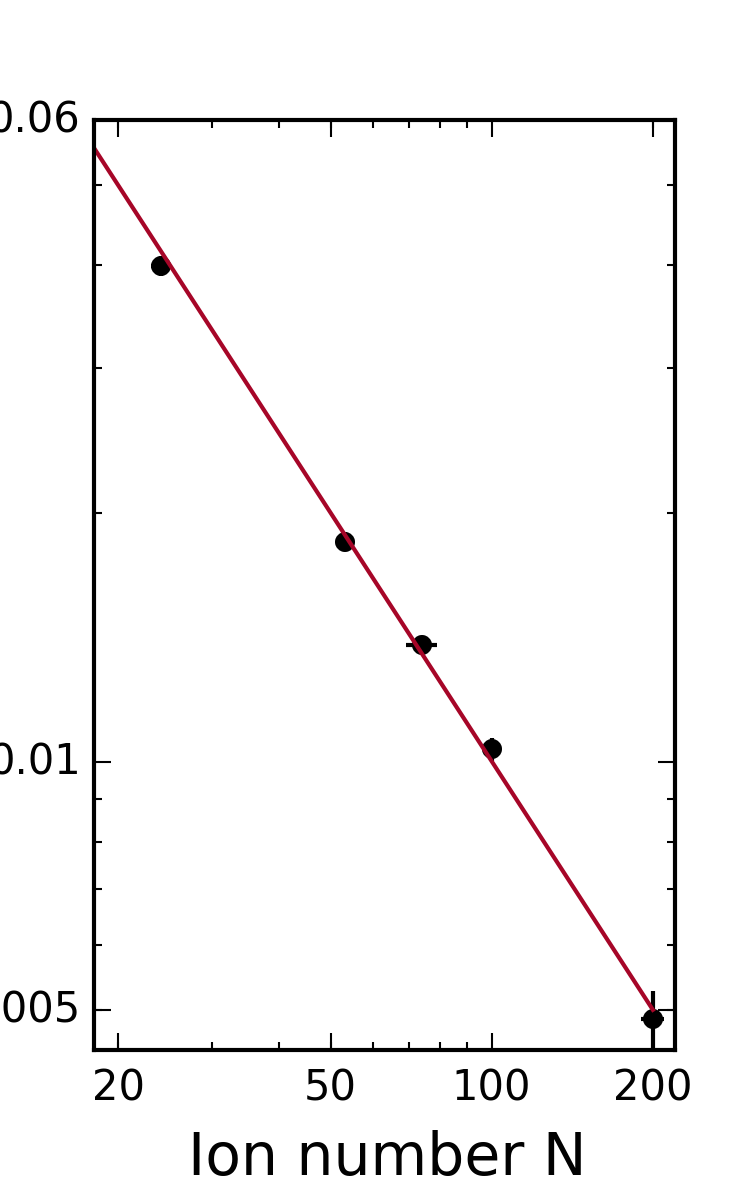
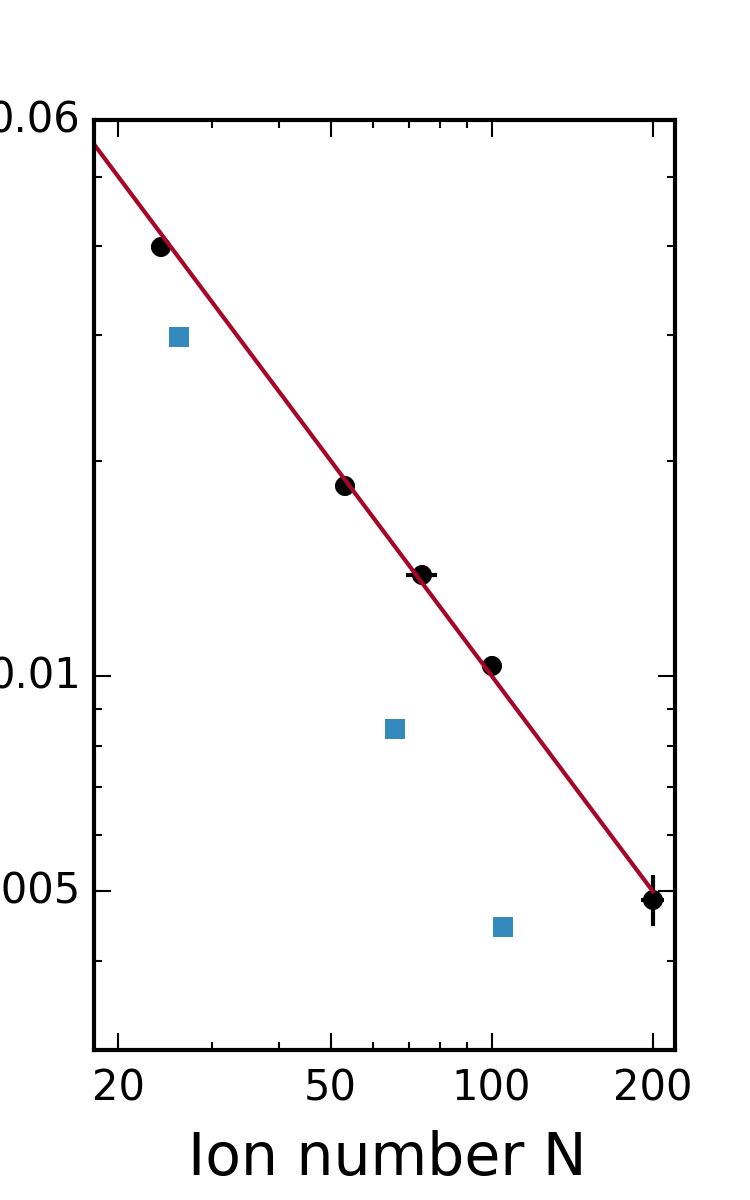
add squeezed points to noise vs N plot

diff --git a/paper_figs/penning_squeeze/PNvsN_plot.py b/paper_figs/penning_squeeze/PNvsN_plot.py
@@ -36,9 +36,15 @@ plt.errorbar([round(n) for n in Ns], np.array(sig_subs)**2, yerr=sfe, xerr=Ns_er
 plt.plot(N_pred,1/np.array(N_pred),'-')
 plt.yscale('log')
 plt.xscale('log')
-plt.axis([0,220, 0.00,0.06])
+plt.axis([0,220, 0.003,0.06])
 plt.ylabel(r'Fractional spin noise $(\Delta S_z/|\vec{S}|)^2$')
 plt.xlabel('Ion number N')
+
+#spectroscopic enhancement data
+SE = data['SE']
+SE_N = data['SE_N']
+squ_spin_var = SE/SE_N
+plt.plot(SE_N, squ_spin_var,'s')
 
 majorLocator = FixedLocator([20,50,100,200])
 majorFormatter = FormatStrFormatter('%d')
